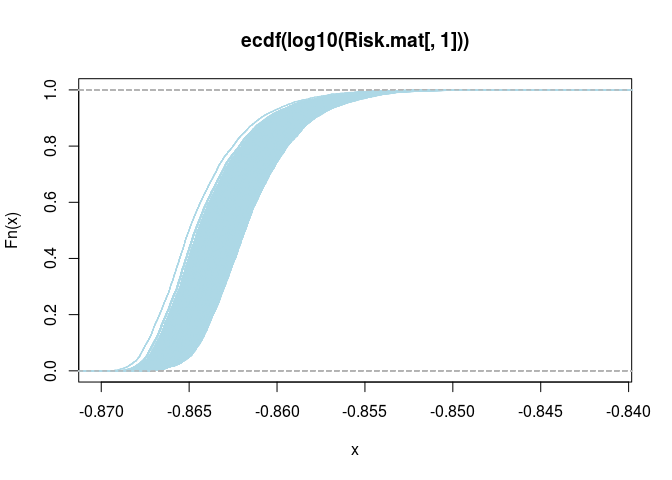
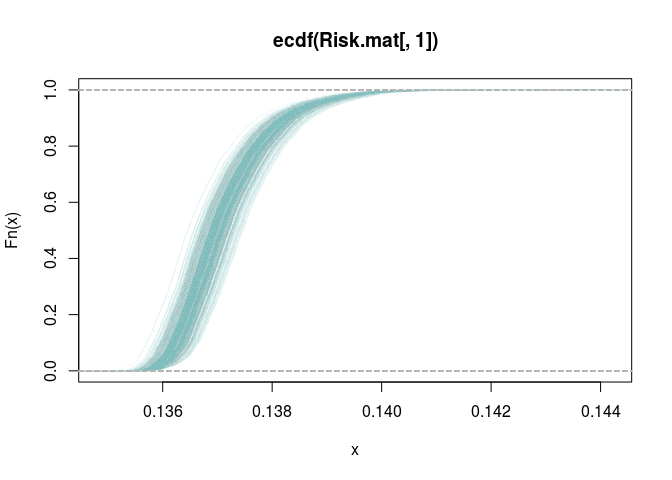
Decreased opacity of blue lines in ecdf plot.

diff --git a/ex0618prob2d.md b/ex0618prob2d.md
@@ -112,11 +112,11 @@ for (i in 1:250) {
 }
 
 # Plot the empirical cumulative distribution for the first iteration.
-plot(ecdf(log10(Risk.mat[, 1])))
+plot(ecdf(Risk.mat[, 1]), col="#ADD8E605")
 
 # Plot empirical cumulative distributions for additional iterations in blue.
-for (j in 2:250) {
-    plot(ecdf(log10(Risk.mat[, j])), col = "lightblue", add = TRUE)
+for (j in 1:250) {
+    plot(ecdf(Risk.mat[, j]), col="#ADD8E605", add = TRUE)
 }
 ```
 
